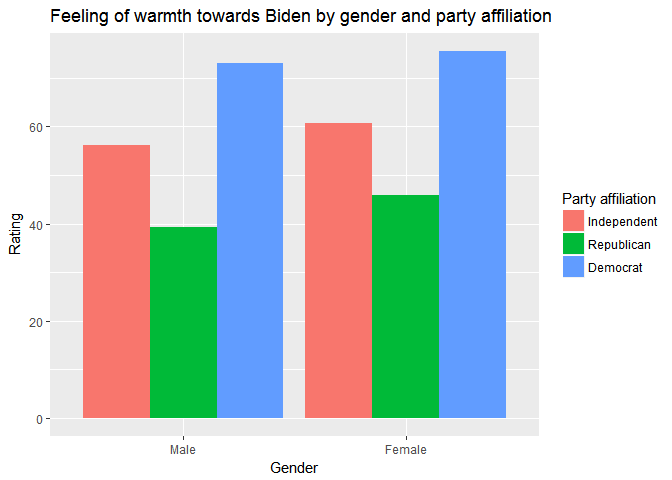
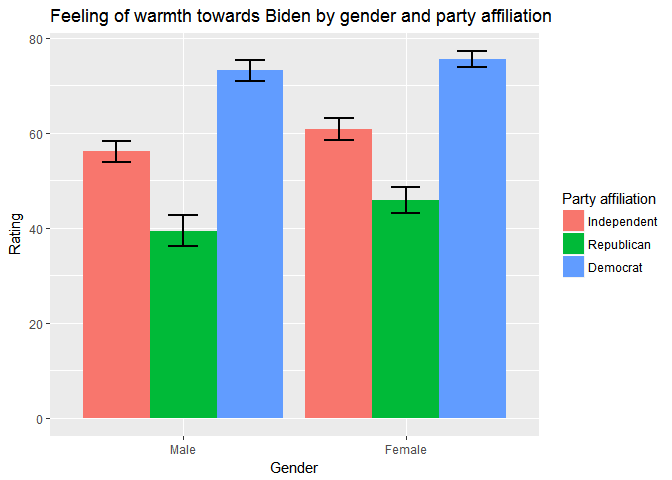
Finished Biden

diff --git a/submissions/longxuan_wang/HW_01/Biden.md b/submissions/longxuan_wang/HW_01/Biden.md
@@ -21,18 +21,43 @@ biden <- read_csv("C:/Users/Longxuan/Downloads/Git HW/dataviz/assignments/data/b
     ## )
 
 ``` r
-biden%>%
+biden_sum <- biden%>%
   mutate(party=dem*2+rep)%>%
-  ggplot(aes(x=as.factor(female), y=biden, fill=as.factor(party)))+
-  geom_bar(stat = "summary", fun.y = "mean", position = position_dodge())+
+  group_by(female, party)%>%
+  summarise(mean=mean(biden), sd=sd(biden), n=n())%>%
+  mutate(CI=sd/sqrt(n)*1.96)
+  
+
+biden_sum%>%
+  ggplot(aes(x=as.factor(female), y=mean, fill=as.factor(party)))+
+  geom_bar(stat = "identity",position = position_dodge())+
   scale_x_discrete(breaks=c(0,1), labels=c("Male", "Female"))+
   scale_fill_discrete("Party affiliation",breaks=c(0,1,2), labels=c("Independent", "Republican", "Democrat"))+
   xlab("Gender")+
   ylab("Rating")+
-  ggtitle("Feeling of warmth towards Biden by gender and party affiliation")
+  ggtitle("Feeling of warmth towards Biden by gender and party affiliation")+
+  geom_errorbar(aes(ymax=mean+CI, ymin=mean-CI), position=position_dodge(0.9), size=1,                  width=0.4)
 ```
 
 ![](Biden_files/figure-markdown_github/csv-1.png)
 
 Explanation
 -----------
+
+### Brief Intro
+
+The dataset used for this graph contains information about individuals who rate their feeling of warmth towards Joe Biden on a scale of 0 to 100. There are 1807 individuals surveyed in total, and basic information about their gender, age, years of education, and political party affiliation are recorded. Among all those variables, I choose gender and party affiliation as my variables of interest, and I study how ratings of Biden vary between those groups.
+
+In order to make between-group comparisons, I calculate the group mean and make comparisons based on this mean statistics. Furthermore, I calculate the 95% confidence interval for the group mean. Since we have a moderately large sample size, we can safely assume that group mean will follow a normal distribution because of the law of large numbers. Their standard deviations are calculated by dividing sample standard deviation by the square root of sample size of each subgroup. Though I lost some information by using only the group mean, I compensated this loss through the confidence interval. So I believe by adding the confidence interval I add to the truthfulness of the graph. Readers will have a better ideal about the real distribution of the data and can make judgements about whether the differences we see in the graphs are truly significant or purely by chance.
+
+### The story
+
+The story that I want to tell through this graph is two-folds. First, as evidenced by the difference in height between the color-coded bars, we see that across both male and female, rating of Biden is the highest among the democrats and the lowest among the republicans. Independents fall between the republicans and democrats. This results is to be expected, and this shows the huge influence of ideology on people of judgement of a person.
+
+On the other hand, if we compare male and females, we see that across all parties, females invariably rates Biden higher than males. There might be a lot of different explanations for this gender difference. The most obvious explanation is of course that women like Biden more than men. However, this explanation should not be taken too seriously without further supporting data as alternative explanations exist. For example, it is plausible to argue that women are in general more lenient/kind in their ratings of anyone. So this gender difference says nothing about Biden specifically. Likewise, it is possible that women rate men higher and vice versa, so this does not say too much about Biden either.
+
+### Graphical presentation
+
+I choose bar plot for this comparison because it is intuitive and eye-catching. Compared with a line chart that use a single line to represent the rating, I believe that the volume of the bars make bar plot more easy to read even from afar with ease. It requires far less attention from the reader to recognize which bar is higher and which is lower. It will be harder to compare data points far away from each other on the x-axis if I use a line chart. Furthermore, bar plot looks better when color-coded because the colors are easier to read than a line chart.
+
+Furthermore, instead of stacking one gender on the other, I put them side by side. This is both for easiness of comparison as well interpretability. By putting them side by side it will be very clear to the readers which bar is higher and which is lower. Moreover, since the y-axis are the ratings, stacking one bar on top of another will make the y-axis uninterpretable.
